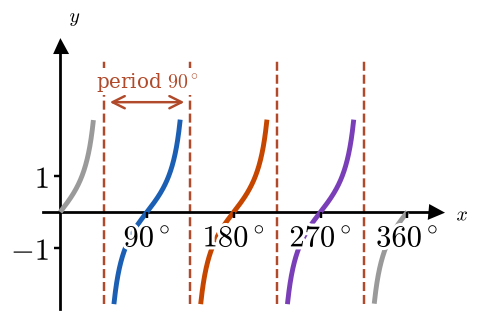
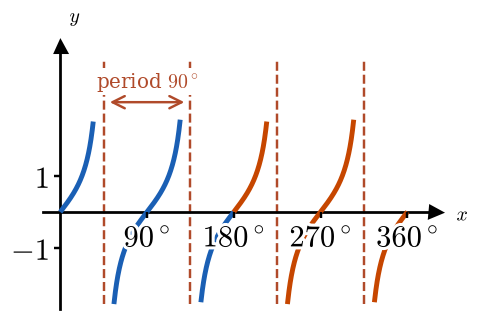
Tangent graphs are counted like sine and cosine: b graphs in 360 degrees
Adrian, 14 Sep 2026, third correction on the same picture: "no, this should
be just one colour" (y = tan x), then "this should be two colours (left one
colour from 0 to 180) and right one colour (from 180 to 360)" (y = tan 2x).

So one tangent graph is 360/b wide, not 180/b, and an asymptote INSIDE a
graph does not end it. y = tan x is ONE graph (plain black), y = tan 2x is
two (cycles(360, 180)), y = 2 tan (x/2) is half of one (plain black). The
grey 'part' colour stays in axes.py for a genuine offcut but the tangent
figures no longer use it. His own v9 captions were right all along.

diff --git a/.claude/skills/create-worksheet/trig_figures/tgraphs.py b/.claude/skills/create-worksheet/trig_figures/tgraphs.py
@@ -42,20 +42,20 @@ def _sincos(out, fn, label):
 
 
 def _tan(out):
-    """y = tan x to 360 deg — a colour marks a WHOLE tangent graph.
+    """y = tan x across 0-360 — ONE tangent graph, so one colour.
 
-    ONE TANGENT GRAPH RUNS FROM ONE ASYMPTOTE TO THE NEXT (Adrian, 14 Sep 2026,
-    on the 90-270 branch: "this is considered one tangent graph -> this should
-    be same colour, then another set of this should be another colour").  Only
-    a whole one is coloured: inside 0-360 that is the 90-270 branch alone.  The
-    stub before 90 and the stub after 270 are offcuts of the graphs next door,
-    so they are drawn GREY — colouring them would say three graphs, and he
-    corrected exactly that ("you misunderstand.  this is ONE tangent graph").
-    How many graphs are in the range is read off the period (360 / 180 = 2),
-    and no numerals go on the picture ("don't have to put the numbers").
+    ADRIAN COUNTS TANGENT GRAPHS THE SAME WAY AS SINE AND COSINE: y = a tan bx
+    gives b graphs in 360 deg, so one tangent graph is 360/b wide and y = tan x
+    fills the whole range with exactly one (14 Sep 2026, on this picture drawn
+    with the branches coloured separately: "you misunderstand.  this is ONE
+    tangent graph", then "no, this should be just one colour").  A single graph
+    is never colour coded — a colour is there to be counted, and there is
+    nothing here to count — so the curve is plain black, asymptotes and all.
+    Do NOT re-derive the count from the 180 deg period of tan; his captions
+    (tan 2x -> 2 graphs in 360, 2 tan (x/2) -> half a graph) are the rule.
     """
     f, ax = plt.subplots(figsize=(2.3, 1.5))
-    for a, b, ci in [(0, 90, 'part'), (90, 270, 0), (270, 360, 'part')]:
+    for a, b, ci in [(0, 90, None), (90, 270, None), (270, 360, None)]:
         x = np.linspace(a + 0.6, b - 0.6, 400)
         y = np.tan(x * DEG)
         y[np.abs(y) > 3.1] = np.nan
@@ -84,12 +84,13 @@ def variation(out, fn, xmax, ymin, ymax, xticks, yticks, centre=None,
     graph should look like.  The colour is the whole of the count; the graphs
     carry no numerals ("don't have to put the numbers", 14 Sep 2026).
 
-    A COLOUR MEANS A WHOLE GRAPH.  On a TANGENT curve a graph runs from one
-    asymptote to the next, so only a piece with an asymptote at BOTH ends takes
-    a colour; the stub left at either end of the range is an offcut of a graph
-    that does not fit in the picture and is given colour number `'part'`, which
-    draws it grey.  ("you misunderstand.  this is ONE tangent graph", Adrian,
-    14 Sep 2026, on a picture that had coloured all three pieces.)
+    A COLOUR MEANS A WHOLE GRAPH, and a tangent graph is counted the way a sine
+    or cosine one is: y = a tan bx gives b graphs in 360 deg, so one of them is
+    360/b wide and may hold several branches — an asymptote inside a graph does
+    NOT end it.  A part-graph left at the edge of a range is an offcut, not
+    something to count, so it takes colour number `'part'` and comes out grey.
+    ("you misunderstand.  this is ONE tangent graph" / "no, this should be just
+    one colour", Adrian, 14 Sep 2026, on y = tan x drawn branch by branch.)
     """
     f, ax = plt.subplots(figsize=(2.3, 1.55))
     if pieces is None:
@@ -168,21 +169,17 @@ if __name__ == '__main__':
               base=lambda t: 2 * np.cos(d(t)) + 1,
               dots=[(180, 3), (0, -1)],
               note=r'$a<0$ turns the curve over')
-    # 5. b on tan — y = tan 2x, drawn to 360 deg so the four are there to see.
-    #    Three WHOLE graphs sit inside the range and take the three colours; the
-    #    stubs at 0-45 and 315-360 are offcuts and stay grey.  Three whole plus
-    #    two halves is the four the period promises.
+    # 5. b on tan — y = tan 2x.  b = 2, so TWO graphs in 360 deg (his rule, the
+    #    same one sine and cosine follow), each 180 deg wide.  Two colours, and
+    #    the change falls at 180 where the curve crosses the axis.
     variation('v_tan_b.png', lambda t: np.tan(2 * d(t)), 360, -2.7, 4.6,
               [90, 180, 270, 360], [-1, 1], asym=(45, 135, 225, 315),
               clip=(-2.5, 2.5),
               period=(45, 135, 3.05, r'period $90^\circ$'),
-              pieces=[(0, 45, 'part'), (45, 135, 0), (135, 225, 1),
-                      (225, 315, 2), (315, 360, 'part')])
+              pieces=cycles(360, 180))
     # 6. a and a fractional b on tan — y = 2 tan (x/2).  The period is the whole
-    #    range, so no WHOLE graph fits inside it — the picture is the back half
-    #    of one graph and the front half of the next.  Nothing to count, so the
-    #    curve stays plain black rather than grey: grey says "offcut, don't count
-    #    it" next to things that ARE being counted, and here nothing is.
+    #    b = 1/2, so ONE graph is 720 deg wide and 0-360 holds HALF of one.
+    #    Less than a whole graph to count, so the curve stays plain black.
     variation('v_tan_ab.png', lambda t: 2 * np.tan(d(t) / 2), 360, -3.3, 5.2,
               [90, 180, 270, 360], [-2, 2], asym=(180,), clip=(-3.0, 3.0),
               period=(0, 360, 4.2, r'period $360^\circ$'))

diff --git a/.claude/skills/create-worksheet/trig_figures/axes.py b/.claude/skills/create-worksheet/trig_figures/axes.py
@@ -72,24 +72,25 @@ def arrow_axes(ax, xlabel='x', ylabel='y', color='k', size=7.0, lw=0.9,
 CYCLE_COLOURS = ['#1a5fb4', '#c64600', '#7a3fb8', '#0b7285', '#a4187a']
 CURVE = '#1a1a1a'
 
-# A COLOUR MEANS A WHOLE GRAPH.  Adrian, 14 Sep 2026, on the 0-360 tangent
-# picture with all three pieces coloured: "you misunderstand.  this is ONE
-# tangent graph" — a tangent graph runs from one asymptote to the next, and the
-# stub left at each end of the range is an offcut of the graph next door, not a
-# graph of its own.  An offcut is drawn GREY so it is plainly not one of the
-# things being counted.
+# A COLOUR MEANS A WHOLE GRAPH.  y = a sin/cos/tan bx all have b graphs in
+# 360 deg — TANGENT IS COUNTED THE SAME WAY AS SINE AND COSINE, so one tangent
+# graph is 360/b wide and an asymptote inside it does not end it (Adrian,
+# 14 Sep 2026: "this should be two colours (left one colour from 0 to 180) and
+# right one colour (from 180 to 360)" on y = tan 2x).  A genuine offcut beside
+# graphs that ARE being counted is drawn GREY; a range holding one graph or less
+# is plain black, never grey.
 PART_GRAPH = '#9a9a9a'
 
 
 def cycle_colour(i, default=CURVE):
     """Colour for graph number i (0-based).  None = a single graph, so black.
 
-    `'part'` = a part-graph at the edge of the range, drawn grey: it is an
-    offcut of a graph that does not fit in the picture, and colouring it would
-    add one to the count the colours are there to make.  A range holding only
-    one graph is drawn plain black — a colour there would be counting something
-    there is nothing to count.  Adjacent graphs never land on the same colour,
-    so there are five.
+    `'part'` = a genuine offcut at the edge of the range, drawn grey: colouring
+    it would add one to the count the colours are there to make.  A range
+    holding one graph, or less than one, is drawn plain BLACK — a colour there
+    would be counting something there is nothing to count, and grey only means
+    "don't count this one" beside things that are being counted.  Adjacent
+    graphs never land on the same colour, so there are five.
     """
     if i == 'part':
         return PART_GRAPH

diff --git a/.claude/skills/create-worksheet/ADRIAN-STYLE.md b/.claude/skills/create-worksheet/ADRIAN-STYLE.md
@@ -211,33 +211,25 @@ The reference is his own notes: `Dropbox/Apps/AdrianMathNotes/Notes/AM/15–20 *
   `trig_figures/axes.py` (`CYCLE_COLOURS`, `cycle_colour(i)`); every figure uses the same
   one, so graph 2 is the same orange on the step-by-step panels as on the variation
   graphs. **Two graphs that touch never take the same colour** — the palette holds five.
-- **A COLOUR MEANS A WHOLE GRAPH; a part-graph at the edge of the range is grey**
-  (14 Sep 2026, on `y = tan x` over 0°–360° drawn with all three pieces coloured: "you
-  misunderstand. this is ONE tangent graph"). A tangent graph runs from one asymptote to
-  the next, so only a piece with an asymptote at BOTH ends earns a colour. Inside 0°–360°
-  that is the 90°–270° branch alone: the stub before 90° and the stub after 270° are
-  offcuts of the graphs next door, drawn GREY so the eye does not count them. On
-  `y = tan 2x` the three whole graphs (45°–135°, 135°–225°, 225°–315°) take the three
-  colours and the two stubs stay grey — three whole plus two halves is the four the
-  period promises. **Do not colour a part-graph at all**: one earlier version gave both
-  ends the same colour to say "between them they make one", the next gave them two
-  different colours to say they belong to different graphs, and he corrected both — a
-  colour on the picture is a graph you can count, and half a graph is not one. When the
-  range holds no whole graph at all (`y = 2 tan ½x` over 0°–360° is the back half of one
-  and the front half of the next) the curve is plain BLACK, not grey: grey means "offcut,
-  don't count this one" beside things that are being counted, and there nothing is.
-  `cycle_colour('part')` in `trig_figures/axes.py` is the grey. How many graphs are in
-  the range is read off the period, never counted off the colour bands.
-- **A tangent graph is drawn to 360°, not to one period** (14 Sep 2026: "for tangent
-  graph draw until 360 degrees, to illustrate how many tangent graph there are in
-  360degrees"). The point of the picture is the count, and a picture that stops at one
-  period has nothing to count. One tangent graph is only 180° wide, so `y = a tan bx`
-  has **`b` tangent graphs in 180°, and `2b` in 360°** — do NOT carry over the sine and
-  cosine rule of "`b` graphs in 360°", it gives the wrong number for tangent. The range
-  ends usually cut a graph in half; a half is not a graph, so it is drawn grey and left
-  out of the count (see the bullet above). Pattern: `trig_figures/tgraphs.py`
-  `variation(..., pieces=…)`, one `(from, to, colour)` run per piece between asymptotes,
-  with `'part'` as the colour number for a stub at either end.
+- **`y = a tan bx` has `b` graphs in 360° — tangent is counted EXACTLY like sine and
+  cosine** (14 Sep 2026, over three corrections on the same picture: "this is considered
+  one tangent graph -> this should be same colour, then another set of this should be
+  another colour", then "you misunderstand. this is ONE tangent graph", then, on
+  `y = tan 2x` drawn branch by branch, "this should be two colours (left one colour from
+  0 to 180) and right one colour (from 180 to 360)"). So **one tangent graph is 360°/b
+  wide**: `y = tan x` is ONE graph filling 0°–360°, `y = tan 2x` is TWO (0°–180° and
+  180°–360°), `y = 2 tan ½x` is HALF a graph in the range. **An asymptote does NOT end a
+  graph** — `y = tan 2x`'s 0°–180° block holds a half-branch, a whole branch and another
+  half-branch, and it is one graph. Do not re-derive the count from tan's 180° period and
+  do not "correct" his captions: earlier sessions coloured each branch separately (three
+  colours on `y = tan x`), then coloured only the middle branch and greyed the two stubs,
+  and he rejected both. The count is `b`, the colours are `b`, and the colour boundaries
+  fall at the multiples of 360°/b.
+- **A single graph, or less than one, is drawn plain BLACK — never coloured, never grey**
+  (`y = tan x` and `y = 2 tan ½x` over 0°–360°). A colour on the picture is a graph you
+  can count; with nothing to count a colour says the wrong thing. `cycle_colour(None)`.
+  `cycle_colour('part')` (grey) exists for a genuine offcut beside graphs that ARE being
+  counted, which on the tangent pictures never happens now that a graph is 360°/b wide.
 - **A shifted sine or cosine shows its centre line, dotted** (14 Sep 2026: "the graph in
   the solution should show the centre line (dotted)"). Any sketch of
   `y = a sin bx + c` / `y = a cos bx + c` with `c ≠ 0` — the SOLUTION graphs as much as

diff --git a/.claude/skills/create-worksheet/trig_figures/README.md b/.claude/skills/create-worksheet/trig_figures/README.md
@@ -29,23 +29,22 @@ Matplotlib helpers, run under `/usr/bin/python3` (Pillow + numpy live there):
   highlight the number of graphs", 14 Sep 2026), and **no numerals on the picture**
   ("for the trigo graphs, don't have to put the numbers", 14 Sep 2026) — the colour is
   the whole of the count. One graph in the range stays plain black. Five colours, because
-  two graphs that touch must never share one. **A colour means a WHOLE graph** — a
-  part-graph at the edge of the range is an offcut, so `cycle_colour('part')` draws it
-  grey and it is left out of the count ("you misunderstand. this is ONE tangent graph",
-  14 Sep 2026). The same palette serves `tgraphs.py` and `drawsteps.py`, so graph 2 is
+  two graphs that touch must never share one. `cycle_colour('part')` is a grey for a
+  genuine offcut beside graphs that ARE being counted; the tangent pictures no longer
+  need it. The same palette serves `tgraphs.py` and `drawsteps.py`, so graph 2 is
   the same orange in both.
 - `tgraphs.py` — the three basic shapes (sin, cos, tan) for a three-column notes block,
   plus six variation graphs showing what a, b and c each do. `variation(..., pieces=…)`
   does the colour coding; `cycles(xmax, period)` builds the runs for a curve
   that simply repeats. **Tangent graphs are drawn to 360°** ("draw until 360 degrees, to
-  illustrate how many tangent graph there are in 360degrees", 14 Sep 2026) — one tangent
-  graph is 180° wide, so `y = a tan bx` gives `b` of them in 180° and `2b` in 360°.
-  **On a tangent curve a graph runs from one asymptote to the next, and only a WHOLE one
-  is coloured** ("this is considered one tangent graph -> this should be same colour, then
-  another set of this should be another colour" / "you misunderstand. this is ONE tangent
-  graph", 14 Sep 2026): the stub at either end of the range is an offcut of the graph next
-  door, so it takes colour number `'part'` and comes out grey. Give `pieces` one run per
-  piece between asymptotes.
+  illustrate how many tangent graph there are in 360degrees", 14 Sep 2026).
+  **Tangent is counted EXACTLY like sine and cosine: `y = a tan bx` has `b` graphs in
+  360°, so one graph is 360°/b wide** ("this should be two colours (left one colour from
+  0 to 180) and right one colour (from 180 to 360)" on `y = tan 2x`, 14 Sep 2026) — an
+  asymptote INSIDE a graph does not end it. `y = tan x` is one graph, so plain black;
+  `y = tan 2x` is `cycles(360, 180)`; `y = 2 tan ½x` is half a graph, so plain black.
+  Never re-derive the count from tan's 180° period — that reading was corrected three
+  times. See `../ADRIAN-STYLE.md` §Diagrams.
 - `drawsteps.py` — the step-by-step SERIES for "how to draw a graph": six panels of the
   same axes, each adding one step (max/min → centre line → period and cycles → the five
   points → one cycle drawn → the cycle copied along, one colour per copy).
